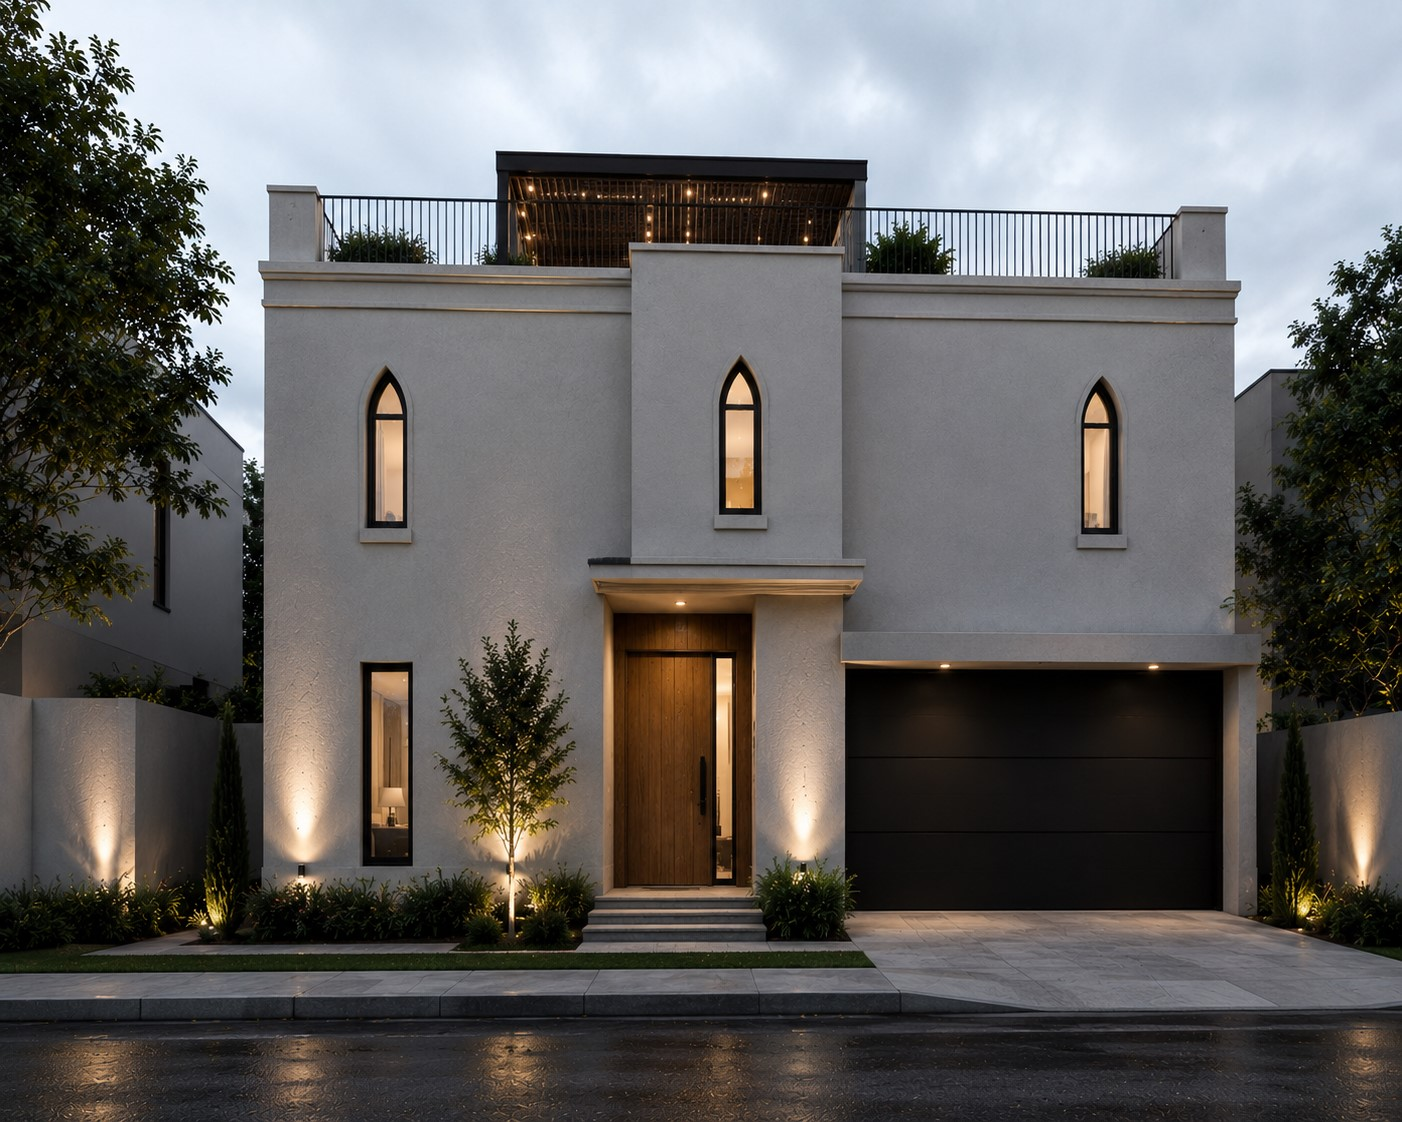
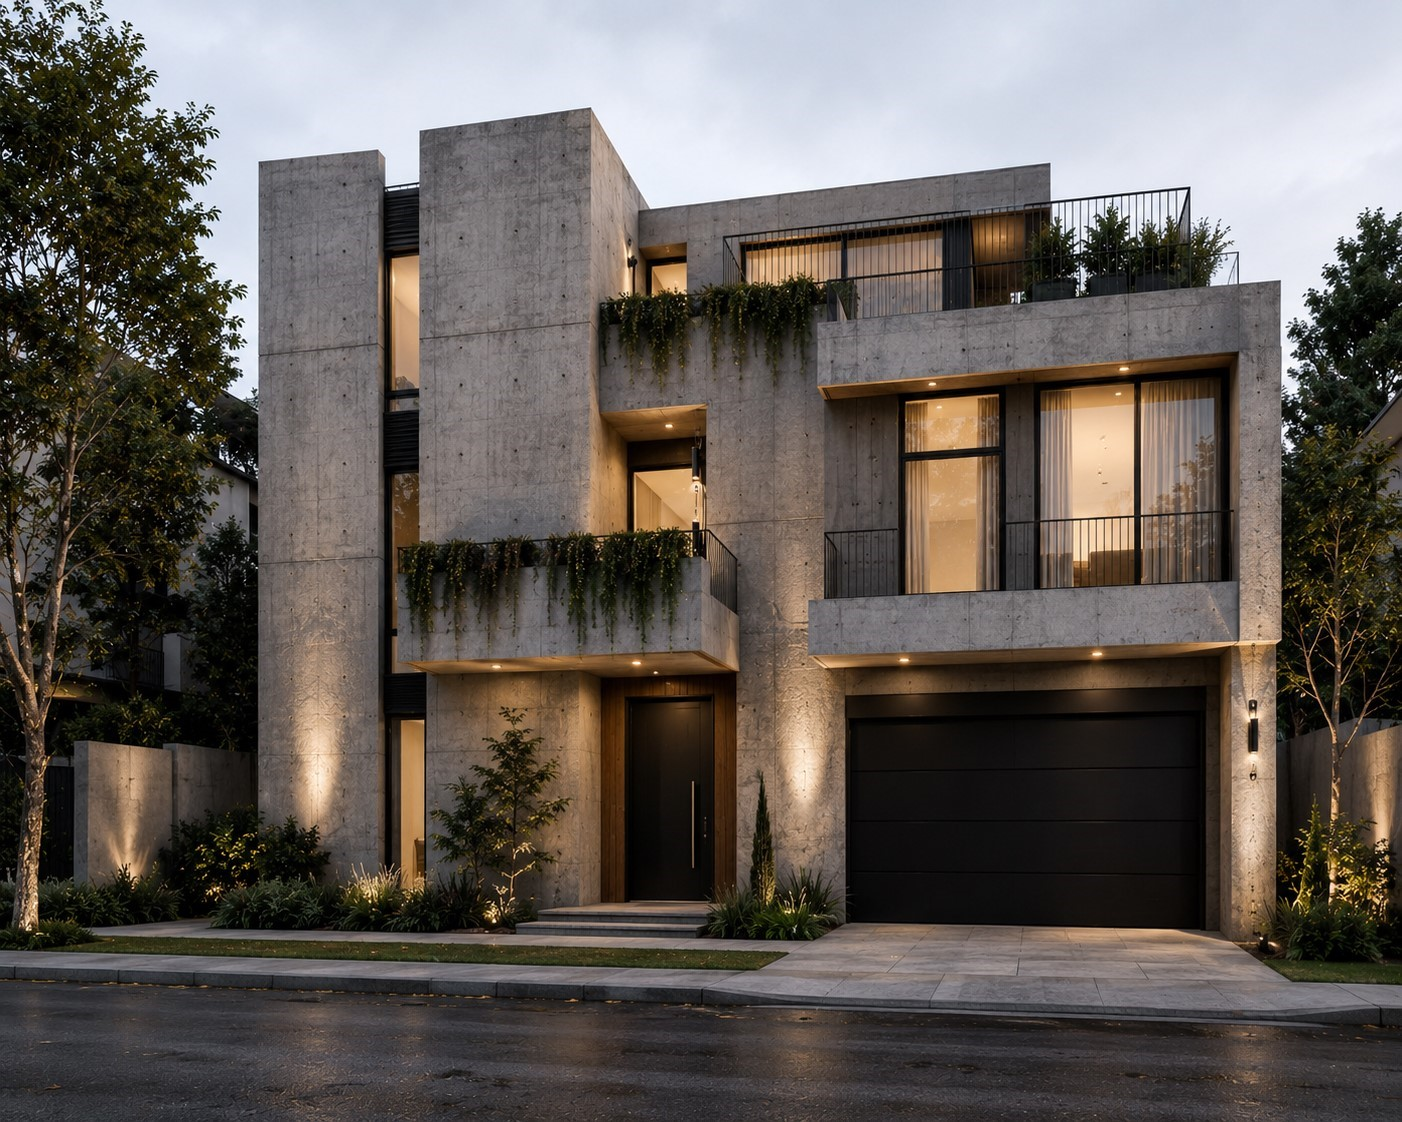
Add files via upload

diff --git a/futuros.html b/futuros.html
@@ -1,0 +1,75 @@
+<!DOCTYPE html>
+<html lang="es">
+<head>
+<meta charset="UTF-8">
+<meta name="viewport" content="width=device-width, initial-scale=1.0">
+<title>Proyectos Futuros | CIVIKA</title>
+
+<link href="https://fonts.googleapis.com/css2?family=Poppins:wght@300;400;600&display=swap" rel="stylesheet">
+
+<style>
+body{font-family:'Poppins',sans-serif;margin:0;background:#f4f4f4}
+
+header{
+  background:#0f172a;
+  color:white;
+  text-align:center;
+  padding:40px;
+}
+
+.grid{
+  display:grid;
+  grid-template-columns:repeat(auto-fit,minmax(300px,1fr));
+  gap:20px;
+  padding:30px;
+}
+
+.card{
+  background:white;
+  border-radius:10px;
+  overflow:hidden;
+  box-shadow:0 5px 20px rgba(0,0,0,0.1);
+}
+
+.card img{
+  width:100%;
+  height:220px;
+  object-fit:cover;
+}
+
+.card-content{
+  padding:15px;
+}
+</style>
+</head>
+
+<body>
+
+<header>
+  <h1>Proyectos Futuros CIVIKA</h1>
+  <p>Conceptos en desarrollo y expansión de portafolio</p>
+  <a href="index.html" style="color:white">← Volver</a>
+</header>
+
+<div class="grid">
+
+  <div class="card">
+    <img src="futuro1.png">
+    <div class="card-content">
+      <h3>Vivienda Social Optimizada</h3>
+      <p>Modelo de interés social medio con diseño eficiente y atractivo.</p>
+    </div>
+  </div>
+
+  <div class="card">
+    <img src="futuro2.png">
+    <div class="card-content">
+      <h3>Desarrollo Vertical Compacto</h3>
+      <p>Propuesta de vivienda urbana en lotes reducidos.</p>
+    </div>
+  </div>
+
+</div>
+
+</body>
+</html>

diff --git a/index.html b/index.html
@@ -32,8 +32,9 @@ nav{
 }
 nav a{
   color:#fff;
-  margin:0 15px;
+  margin:0 12px;
   text-decoration:none;
+  font-weight:500;
 }
 
 /* SECCIONES */
@@ -107,13 +108,17 @@ footer{
   <a href="#servicios">Servicios</a>
   <a href="#galeria">Proyectos</a>
   <a href="proyectos.html">Proyectos creados</a>
+  <a href="futuros.html">Proyectos futuros</a>
   <a href="#contacto">Contacto</a>
   <a href="https://www.instagram.com/civika_viviendas?utm_source=qr&igsh=ZXIxYmUycmRvdHdp" target="_blank">Instagram</a>
 </nav>
 
 <section id="nosotros">
   <h2>Sobre CIVIKA</h2>
-  <p>Empresa enfocada en desarrollo habitacional, ingeniería civil y ejecución constructiva.</p>
+  <p>
+    CIVIKA es una empresa enfocada en el desarrollo habitacional, integrando ingeniería civil,
+    planeación urbana y ejecución constructiva bajo un enfoque técnico y eficiente.
+  </p>
 </section>
 
 <section id="servicios">